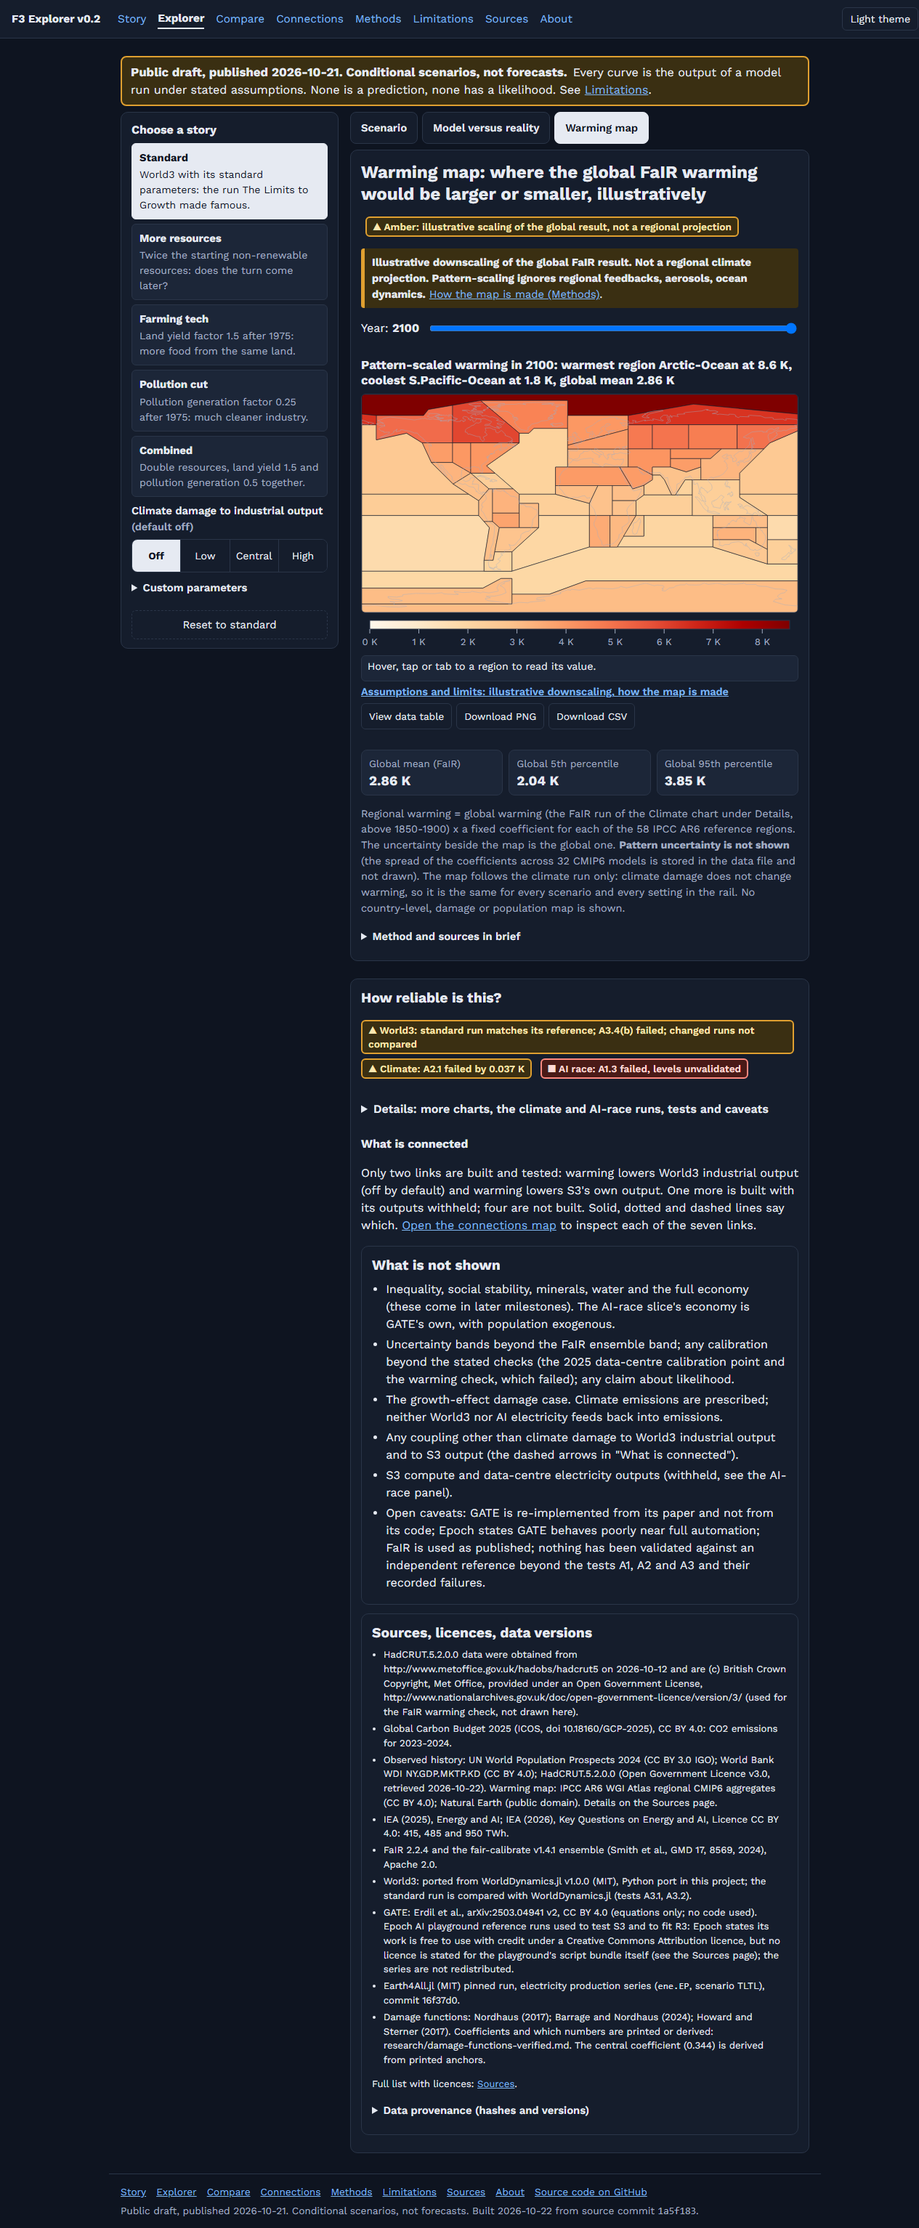
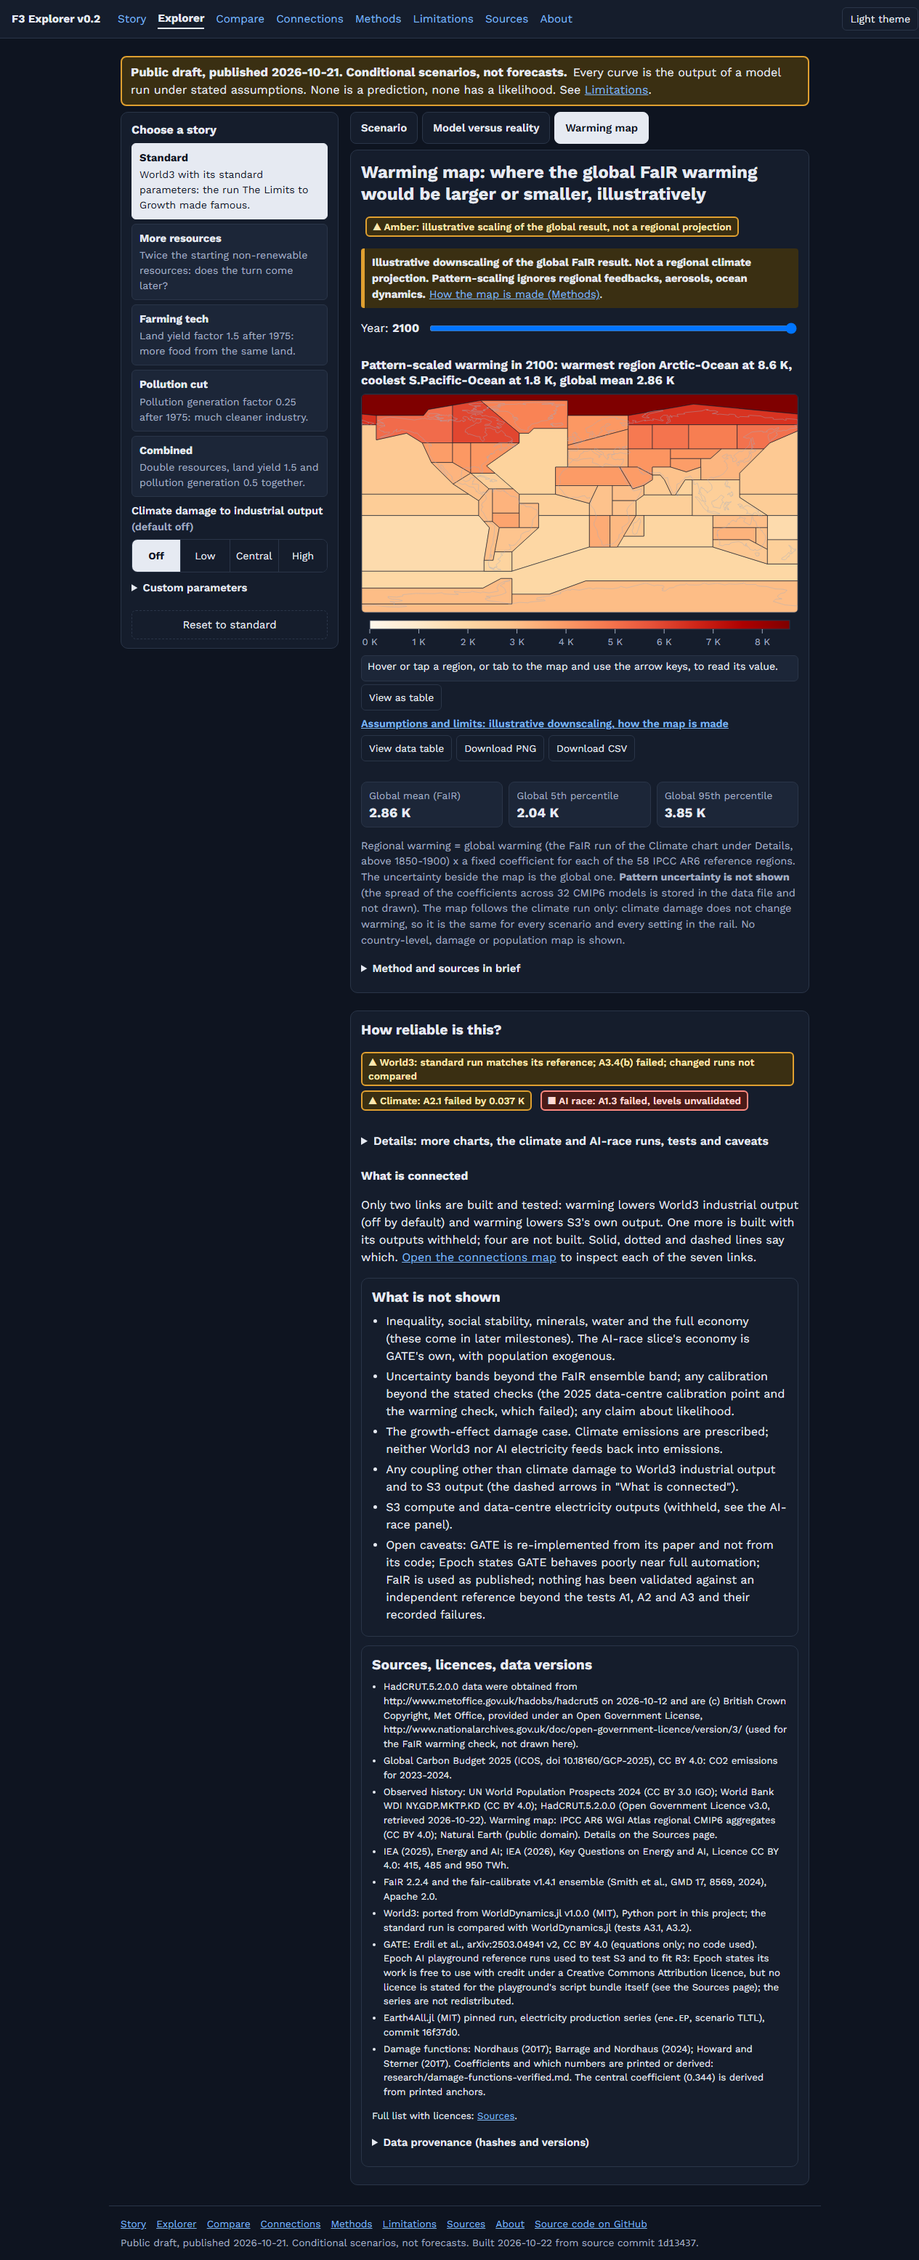
docs: map keyboard model, table view and honest badge count; screenshots re-taken; table header no longer wraps

diff --git a/site/about.html b/site/about.html
@@ -24,18 +24,18 @@
 <li><strong>To report an error</strong> (a wrong number, a missing caveat, a broken page, a licence concern): open an issue at <a href="https://github.com/stefbeau/F3/issues">https://github.com/stefbeau/F3/issues</a>. Please say which page and which chart or sentence.</li>
 </ul></section>
 <section class="card"><h2>How to cite</h2>
-<p>Beau, S. (2026). <em>F3 (Foundation for Earth): an open global simulation model. Explorer v0.2 (public draft).</em> https://github.com/stefbeau/F3, source commit 65e10ac, accessed 2026-10-22.</p>
+<p>Beau, S. (2026). <em>F3 (Foundation for Earth): an open global simulation model. Explorer v0.2 (public draft).</em> https://github.com/stefbeau/F3, source commit 1d13437, accessed 2026-10-22.</p>
 <p class="note">There is no DOI and no published paper yet. If you cite a figure, please cite the date and commit, and state that it is a conditional scenario from a draft with recorded test failures.</p>
 </section>
 <section class="card"><h2>This version</h2>
 <ul>
-<li>Built <strong>2026-10-22</strong> from source commit <code>65e10ac</code>; the working tree had uncommitted changes when this was built. The commit that contains the built pages is the one after the source commit named here; see the repository history.</li>
+<li>Built <strong>2026-10-22</strong> from source commit <code>1d13437</code>; the working tree had uncommitted changes when this was built. The commit that contains the built pages is the one after the source commit named here; see the repository history.</li>
 <li>Status: public draft, published 2026-10-21. Conditional scenarios, not forecasts.</li>
 <li>Language: English only in this version.</li>
 </ul></section>
 
 </main>
-<footer class="site"><nav aria-label="Footer"><a href="index.html">Story</a><a href="explorer.html">Explorer</a><a href="compare.html">Compare</a><a href="connections.html">Connections</a><a href="methods.html">Methods</a><a href="limitations.html">Limitations</a><a href="sources.html">Sources</a><a href="about.html">About</a><a href="https://github.com/stefbeau/F3">Source code on GitHub</a></nav><div>Public draft, published 2026-10-21. Conditional scenarios, not forecasts. Built 2026-10-22 from source commit <code>65e10ac</code>.</div></footer>
+<footer class="site"><nav aria-label="Footer"><a href="index.html">Story</a><a href="explorer.html">Explorer</a><a href="compare.html">Compare</a><a href="connections.html">Connections</a><a href="methods.html">Methods</a><a href="limitations.html">Limitations</a><a href="sources.html">Sources</a><a href="about.html">About</a><a href="https://github.com/stefbeau/F3">Source code on GitHub</a></nav><div>Public draft, published 2026-10-21. Conditional scenarios, not forecasts. Built 2026-10-22 from source commit <code>1d13437</code>.</div></footer>
 <script src="assets/shell.js"></script>
 </body>
 </html>

diff --git a/site/index.html b/site/index.html
@@ -80,7 +80,7 @@
 <noscript><div class="notice">The charts on this page are drawn by JavaScript from the precomputed data in <code>data/explorer.js</code>. Without JavaScript only the text is shown.</div></noscript>
 
 </main>
-<footer class="site"><nav aria-label="Footer"><a href="index.html">Story</a><a href="explorer.html">Explorer</a><a href="compare.html">Compare</a><a href="connections.html">Connections</a><a href="methods.html">Methods</a><a href="limitations.html">Limitations</a><a href="sources.html">Sources</a><a href="about.html">About</a><a href="https://github.com/stefbeau/F3">Source code on GitHub</a></nav><div>Public draft, published 2026-10-21. Conditional scenarios, not forecasts. Built 2026-10-22 from source commit <code>65e10ac</code>.</div></footer>
+<footer class="site"><nav aria-label="Footer"><a href="index.html">Story</a><a href="explorer.html">Explorer</a><a href="compare.html">Compare</a><a href="connections.html">Connections</a><a href="methods.html">Methods</a><a href="limitations.html">Limitations</a><a href="sources.html">Sources</a><a href="about.html">About</a><a href="https://github.com/stefbeau/F3">Source code on GitHub</a></nav><div>Public draft, published 2026-10-21. Conditional scenarios, not forecasts. Built 2026-10-22 from source commit <code>1d13437</code>.</div></footer>
 <script src="assets/shell.js"></script>
 <script src="data/explorer.js"></script>
 <script src="assets/f3-core.js"></script>

diff --git a/site/assets/f3.css b/site/assets/f3.css
@@ -247,7 +247,7 @@ table.efx th,table.efx td{overflow-wrap:normal;word-break:normal;hyphens:none}ta
 #ch_map path.reg{cursor:pointer;outline:none}#ch_map path.reg:focus{stroke:var(--fg)}
 .mapview{margin:4px 0 8px}.mapbtn{min-height:36px;font-size:.85rem;padding:4px 10px}.mapbtn[aria-expanded=true]{border-color:var(--fg)}
 .maptblbox{border:1px solid var(--line);border-radius:8px;background:var(--card2);margin-top:6px;max-width:100%;max-height:22em;overflow:auto}.maptblbox:focus-visible{outline:3px solid var(--focus)}
-.maptable{width:100%;font-size:.88rem}.maptable caption{caption-side:top;text-align:left;font-size:.88rem;padding:6px 8px;color:var(--fg)}.maptable th[scope=row]{font-weight:500}.maptable td{font-variant-numeric:tabular-nums}.maptable thead th{position:sticky;top:0;background:var(--card2)}
+.maptable{width:100%;font-size:.88rem}.maptable caption{caption-side:top;text-align:left;font-size:.88rem;padding:6px 8px;color:var(--fg)}.maptable th[scope=row]{font-weight:500}.maptable td{font-variant-numeric:tabular-nums}.maptable thead th{white-space:nowrap;position:sticky;top:0;background:var(--card2)}
 .cscale{margin:4px 0}.leg svg.cscale{width:100%;height:auto;flex:1 1 100%}
 .secondary{border:1px dashed var(--line);border-radius:8px;padding:6px 10px;margin:14px 0;opacity:.92}
 .secondary>summary{font-size:.92rem;color:var(--mut)}

diff --git a/site_src/style.css b/site_src/style.css
@@ -247,7 +247,7 @@ table.efx th,table.efx td{overflow-wrap:normal;word-break:normal;hyphens:none}ta
 #ch_map path.reg{cursor:pointer;outline:none}#ch_map path.reg:focus{stroke:var(--fg)}
 .mapview{margin:4px 0 8px}.mapbtn{min-height:36px;font-size:.85rem;padding:4px 10px}.mapbtn[aria-expanded=true]{border-color:var(--fg)}
 .maptblbox{border:1px solid var(--line);border-radius:8px;background:var(--card2);margin-top:6px;max-width:100%;max-height:22em;overflow:auto}.maptblbox:focus-visible{outline:3px solid var(--focus)}
-.maptable{width:100%;font-size:.88rem}.maptable caption{caption-side:top;text-align:left;font-size:.88rem;padding:6px 8px;color:var(--fg)}.maptable th[scope=row]{font-weight:500}.maptable td{font-variant-numeric:tabular-nums}.maptable thead th{position:sticky;top:0;background:var(--card2)}
+.maptable{width:100%;font-size:.88rem}.maptable caption{caption-side:top;text-align:left;font-size:.88rem;padding:6px 8px;color:var(--fg)}.maptable th[scope=row]{font-weight:500}.maptable td{font-variant-numeric:tabular-nums}.maptable thead th{white-space:nowrap;position:sticky;top:0;background:var(--card2)}
 .cscale{margin:4px 0}.leg svg.cscale{width:100%;height:auto;flex:1 1 100%}
 .secondary{border:1px dashed var(--line);border-radius:8px;padding:6px 10px;margin:14px 0;opacity:.92}
 .secondary>summary{font-size:.92rem;color:var(--mut)}

diff --git a/site/connections.html b/site/connections.html
@@ -44,7 +44,7 @@
 </ul></section>
 
 </main>
-<footer class="site"><nav aria-label="Footer"><a href="index.html">Story</a><a href="explorer.html">Explorer</a><a href="compare.html">Compare</a><a href="connections.html">Connections</a><a href="methods.html">Methods</a><a href="limitations.html">Limitations</a><a href="sources.html">Sources</a><a href="about.html">About</a><a href="https://github.com/stefbeau/F3">Source code on GitHub</a></nav><div>Public draft, published 2026-10-21. Conditional scenarios, not forecasts. Built 2026-10-22 from source commit <code>65e10ac</code>.</div></footer>
+<footer class="site"><nav aria-label="Footer"><a href="index.html">Story</a><a href="explorer.html">Explorer</a><a href="compare.html">Compare</a><a href="connections.html">Connections</a><a href="methods.html">Methods</a><a href="limitations.html">Limitations</a><a href="sources.html">Sources</a><a href="about.html">About</a><a href="https://github.com/stefbeau/F3">Source code on GitHub</a></nav><div>Public draft, published 2026-10-21. Conditional scenarios, not forecasts. Built 2026-10-22 from source commit <code>1d13437</code>.</div></footer>
 <script src="assets/shell.js"></script>
 <script src="data/explorer.js"></script>
 <script src="assets/f3-core.js"></script>

diff --git a/site/explorer.html b/site/explorer.html
@@ -192,7 +192,7 @@
 </div>
 
 </main>
-<footer class="site"><nav aria-label="Footer"><a href="index.html">Story</a><a href="explorer.html">Explorer</a><a href="compare.html">Compare</a><a href="connections.html">Connections</a><a href="methods.html">Methods</a><a href="limitations.html">Limitations</a><a href="sources.html">Sources</a><a href="about.html">About</a><a href="https://github.com/stefbeau/F3">Source code on GitHub</a></nav><div>Public draft, published 2026-10-21. Conditional scenarios, not forecasts. Built 2026-10-22 from source commit <code>65e10ac</code>.</div></footer>
+<footer class="site"><nav aria-label="Footer"><a href="index.html">Story</a><a href="explorer.html">Explorer</a><a href="compare.html">Compare</a><a href="connections.html">Connections</a><a href="methods.html">Methods</a><a href="limitations.html">Limitations</a><a href="sources.html">Sources</a><a href="about.html">About</a><a href="https://github.com/stefbeau/F3">Source code on GitHub</a></nav><div>Public draft, published 2026-10-21. Conditional scenarios, not forecasts. Built 2026-10-22 from source commit <code>1d13437</code>.</div></footer>
 <script src="assets/shell.js"></script>
 <script src="data/explorer.js"></script>
 <script src="assets/f3-core.js"></script>

diff --git a/site/compare.html b/site/compare.html
@@ -51,7 +51,7 @@
 </div>
 
 </main>
-<footer class="site"><nav aria-label="Footer"><a href="index.html">Story</a><a href="explorer.html">Explorer</a><a href="compare.html">Compare</a><a href="connections.html">Connections</a><a href="methods.html">Methods</a><a href="limitations.html">Limitations</a><a href="sources.html">Sources</a><a href="about.html">About</a><a href="https://github.com/stefbeau/F3">Source code on GitHub</a></nav><div>Public draft, published 2026-10-21. Conditional scenarios, not forecasts. Built 2026-10-22 from source commit <code>65e10ac</code>.</div></footer>
+<footer class="site"><nav aria-label="Footer"><a href="index.html">Story</a><a href="explorer.html">Explorer</a><a href="compare.html">Compare</a><a href="connections.html">Connections</a><a href="methods.html">Methods</a><a href="limitations.html">Limitations</a><a href="sources.html">Sources</a><a href="about.html">About</a><a href="https://github.com/stefbeau/F3">Source code on GitHub</a></nav><div>Public draft, published 2026-10-21. Conditional scenarios, not forecasts. Built 2026-10-22 from source commit <code>1d13437</code>.</div></footer>
 <script src="assets/shell.js"></script>
 <script src="data/explorer.js"></script>
 <script src="assets/f3-core.js"></script>

diff --git a/site/limitations.html b/site/limitations.html
@@ -63,7 +63,7 @@
 </ul></section>
 
 </main>
-<footer class="site"><nav aria-label="Footer"><a href="index.html">Story</a><a href="explorer.html">Explorer</a><a href="compare.html">Compare</a><a href="connections.html">Connections</a><a href="methods.html">Methods</a><a href="limitations.html">Limitations</a><a href="sources.html">Sources</a><a href="about.html">About</a><a href="https://github.com/stefbeau/F3">Source code on GitHub</a></nav><div>Public draft, published 2026-10-21. Conditional scenarios, not forecasts. Built 2026-10-22 from source commit <code>65e10ac</code>.</div></footer>
+<footer class="site"><nav aria-label="Footer"><a href="index.html">Story</a><a href="explorer.html">Explorer</a><a href="compare.html">Compare</a><a href="connections.html">Connections</a><a href="methods.html">Methods</a><a href="limitations.html">Limitations</a><a href="sources.html">Sources</a><a href="about.html">About</a><a href="https://github.com/stefbeau/F3">Source code on GitHub</a></nav><div>Public draft, published 2026-10-21. Conditional scenarios, not forecasts. Built 2026-10-22 from source commit <code>1d13437</code>.</div></footer>
 <script src="assets/shell.js"></script>
 </body>
 </html>

diff --git a/site/methods.html b/site/methods.html
@@ -90,7 +90,7 @@
 </ul></section>
 
 </main>
-<footer class="site"><nav aria-label="Footer"><a href="index.html">Story</a><a href="explorer.html">Explorer</a><a href="compare.html">Compare</a><a href="connections.html">Connections</a><a href="methods.html">Methods</a><a href="limitations.html">Limitations</a><a href="sources.html">Sources</a><a href="about.html">About</a><a href="https://github.com/stefbeau/F3">Source code on GitHub</a></nav><div>Public draft, published 2026-10-21. Conditional scenarios, not forecasts. Built 2026-10-22 from source commit <code>65e10ac</code>.</div></footer>
+<footer class="site"><nav aria-label="Footer"><a href="index.html">Story</a><a href="explorer.html">Explorer</a><a href="compare.html">Compare</a><a href="connections.html">Connections</a><a href="methods.html">Methods</a><a href="limitations.html">Limitations</a><a href="sources.html">Sources</a><a href="about.html">About</a><a href="https://github.com/stefbeau/F3">Source code on GitHub</a></nav><div>Public draft, published 2026-10-21. Conditional scenarios, not forecasts. Built 2026-10-22 from source commit <code>1d13437</code>.</div></footer>
 <script src="assets/shell.js"></script>
 </body>
 </html>

diff --git a/site/sources.html b/site/sources.html
@@ -57,7 +57,7 @@
 
 
 </main>
-<footer class="site"><nav aria-label="Footer"><a href="index.html">Story</a><a href="explorer.html">Explorer</a><a href="compare.html">Compare</a><a href="connections.html">Connections</a><a href="methods.html">Methods</a><a href="limitations.html">Limitations</a><a href="sources.html">Sources</a><a href="about.html">About</a><a href="https://github.com/stefbeau/F3">Source code on GitHub</a></nav><div>Public draft, published 2026-10-21. Conditional scenarios, not forecasts. Built 2026-10-22 from source commit <code>65e10ac</code>.</div></footer>
+<footer class="site"><nav aria-label="Footer"><a href="index.html">Story</a><a href="explorer.html">Explorer</a><a href="compare.html">Compare</a><a href="connections.html">Connections</a><a href="methods.html">Methods</a><a href="limitations.html">Limitations</a><a href="sources.html">Sources</a><a href="about.html">About</a><a href="https://github.com/stefbeau/F3">Source code on GitHub</a></nav><div>Public draft, published 2026-10-21. Conditional scenarios, not forecasts. Built 2026-10-22 from source commit <code>1d13437</code>.</div></footer>
 <script src="assets/shell.js"></script>
 </body>
 </html>

diff --git a/docs/site-explorer.md b/docs/site-explorer.md
@@ -104,3 +104,12 @@ Not merged, not pushed, not published: Pages is not enabled and the workflow has
 - **Tests re-pointed, not relaxed:** `tests/test_site_history.py` read the pure functions from `site_src/explorer.js` and the pages from `index.html`; those moved (to `core.js` and `explorer.html`), the assertions are unchanged. **Three expectations of `tests/test_site_ux.py` and `test_site_story.py` that the v0.1-layout commit had changed (3 badges to 5, 3 read-first lines to 4, the old tab order) were not changed:** the panel badges are written `<a href=... class="badge amber">` (attribute order the badge-count test does not match), no read-first line was added, and the new view has its own test (`test_site_panels.py`). If the editor prefers the badges counted with the others, that test's number becomes 5.
 
 **Checked live** (headless Edge through the DevTools protocol; screenshots `docs/img/explorer-v02b-<page>-1280.png` and `-390.png`, v0.1-layout screenshots `explorer-history-*` and `explorer-map-*` kept as history): all pages at 1280 and 390 px, dark and light for the story, dashboard and connections: no horizontal overflow, no rendered text below 13 px (all text including SVG text scaled to its rendered size), no console errors; the strict-JSON page load; stripes (table, CSV and PNG downloads captured); an assumptions link on every chart card, changing to the coupling when damage is on; loop diagram and roadmap at 390 px (13.1 px); dashboard presets, damage, hash and tab restore after reload, tab keyboard (arrows, Home, End), history chart keyboard readout, map year slider, region focus readout, map table, CSV and PNG; phone step bar with the new tabs; story chapter 1 line follows its control; Compare swap; connections map with the keyboard (arrows, Enter, Space, End) and the list below 900 px. **Not checked:** a physical phone, browsers other than Edge, a screen reader, colour-blindness simulation, a printed page, the 58 region tab stops with a screen reader.
+
+### Warming map: keyboard model, table view, honest badge count (2026-10-22, branch `site-history`)
+Display layer only; no new number, no model run. Pure functions in `site_src/core.js` (`regionCentre`, `mapOrder`, `mapNeighbour`, `mapValueTable`), DOM in `F3C.regionMap` (`site_src/charts.js`), tests in `tests/test_site_map_access.py`.
+- **One tab stop.** The 58 regions were 58 tab stops. Now exactly one region has `tabindex="0"` and the other 57 have `-1` (roving tabindex); the 0 follows focus, so Shift+Tab returns to the region last used. Tab from the year slider lands on the map once, the next Tab goes to the "View as table" button.
+- **Keys.** Arrow keys move to the nearest region centre inside the 90-degree cone of the arrow (the region straight ahead is preferred); at an edge the focus stays. Home and End jump to the first and last region in reading order (north to south in 30-degree bands, west to east inside a band). Escape clears the readout and leaves the map (focus goes to the page body). Every region is reachable by arrow keys from the first (tested on the data).
+- **Readout and ring.** Hover and focus show the same readout (name, id, value, the global value times the coefficient). The focused or hovered region gets a ring drawn on top (a card-coloured halo under a focus-coloured line, constant width), so the focus is visible on any fill and in both themes.
+- **View as table.** A real `button` ("View as table" / "Hide table") with `aria-expanded` and `aria-controls` toggles a table in a keyboard-reachable scroll box (`role="region"`, `tabindex="0"`, scrolls inside itself, so no page-level horizontal overflow at 390 px). Columns: region, value, unit (K above 1850-1900). All 58 regions, highest first; a region with no value is listed last as "no value", never as 0 (a missing global value gives "no value" everywhere). The caption is generated from the data ("Pattern-scaled warming in 2100, all 58 regions, highest first ..."). It sits beside the card's existing "View data table" (coefficients and type), which is unchanged.
+- **Honest badge count.** `tests/test_site_ux.py` counted 3 badges on `explorer.html` only because the two panel badges (Model versus reality, Warming map) were written `href` before `class`, which the counting regex skipped. The markup is now in the normal order and the test counts 5 (World3, climate and AI-race badges plus the two panel badges), with a dated comment at the assertion; `tests/test_site_panels.py` matches the same order. The panels show exactly what they showed. The Read-this-first count (3 items on the story page, `tests/test_site_story.py`) was already an honest count of `class="rf"` and is unchanged.
+- **Checked live** (headless Edge, `file://`, 1280 and 390 px): history and map tabs have no horizontal overflow, no visible text under 13 px (HTML and SVG text), no console errors; one region tab stop; arrows, Home, End, Escape and the table toggle behave as above. Screenshots: `docs/img/explorer-v02b-explorer-history-*.png`, `explorer-v02b-explorer-map-*.png`, `explorer-v02b-explorer-map-table-390.png`.

diff --git a/docs/STATUS.md b/docs/STATUS.md
@@ -172,3 +172,5 @@ Built on `site-ux`; **not merged, not published, Pages not enabled or run.** Dat
 ## Explorer v0.2b (2026-10-22, branches `site-ux` and `site-history`): fixes, rebase, panels in the v0.2 layout
 Not merged, not pushed, Pages not enabled, workflow not run. `site-ux` has the five fixes (diagrams restored on Connections and Methods, strict JSON with null as no value, one data file loaded per page, stripes as a chart card, assumptions link on every card) and is rebased on local `main`; `site-history` is rebased on it and has "Model versus reality" and "Warming map" rebuilt as dashboard tabs (D-057 content unchanged). The brief said the two branches started at the same commit; they did not (`site-history` was eight commits ahead of an older fork), so its v0.1-layout panel commit was resolved by taking the v0.2 layout and rebuilding the panels. Details, conflict handling and open choices (two data files on disk, panel badge count): `docs/site-explorer.md`, section v0.2b.
 
+
+**Warming map accessibility and honest badge count (2026-10-22, `site-history`).** The map is one tab stop (roving tabindex: arrows move between regions, Home and End jump, Escape leaves, a visible focus ring, the same readout on hover and focus) and has a "View as table" button (aria-expanded) with a table of all 58 regions, highest first, no-value regions last, never as zero. The explorer badge test now counts 5 badges, including the two panel badges, with the attribute-order trick removed; the panels are unchanged. Details and live checks: `docs/site-explorer.md`. Not pushed, not merged, not published.
